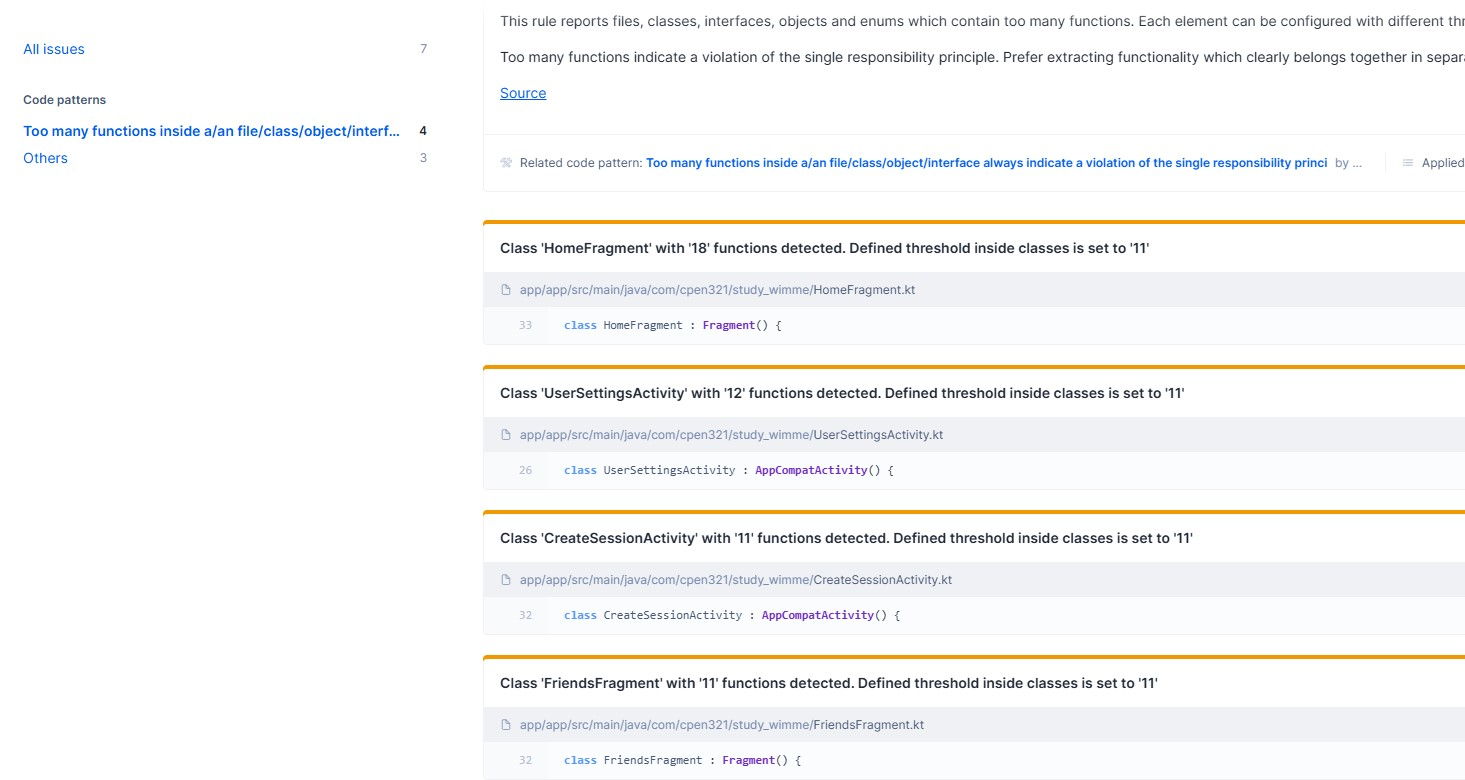
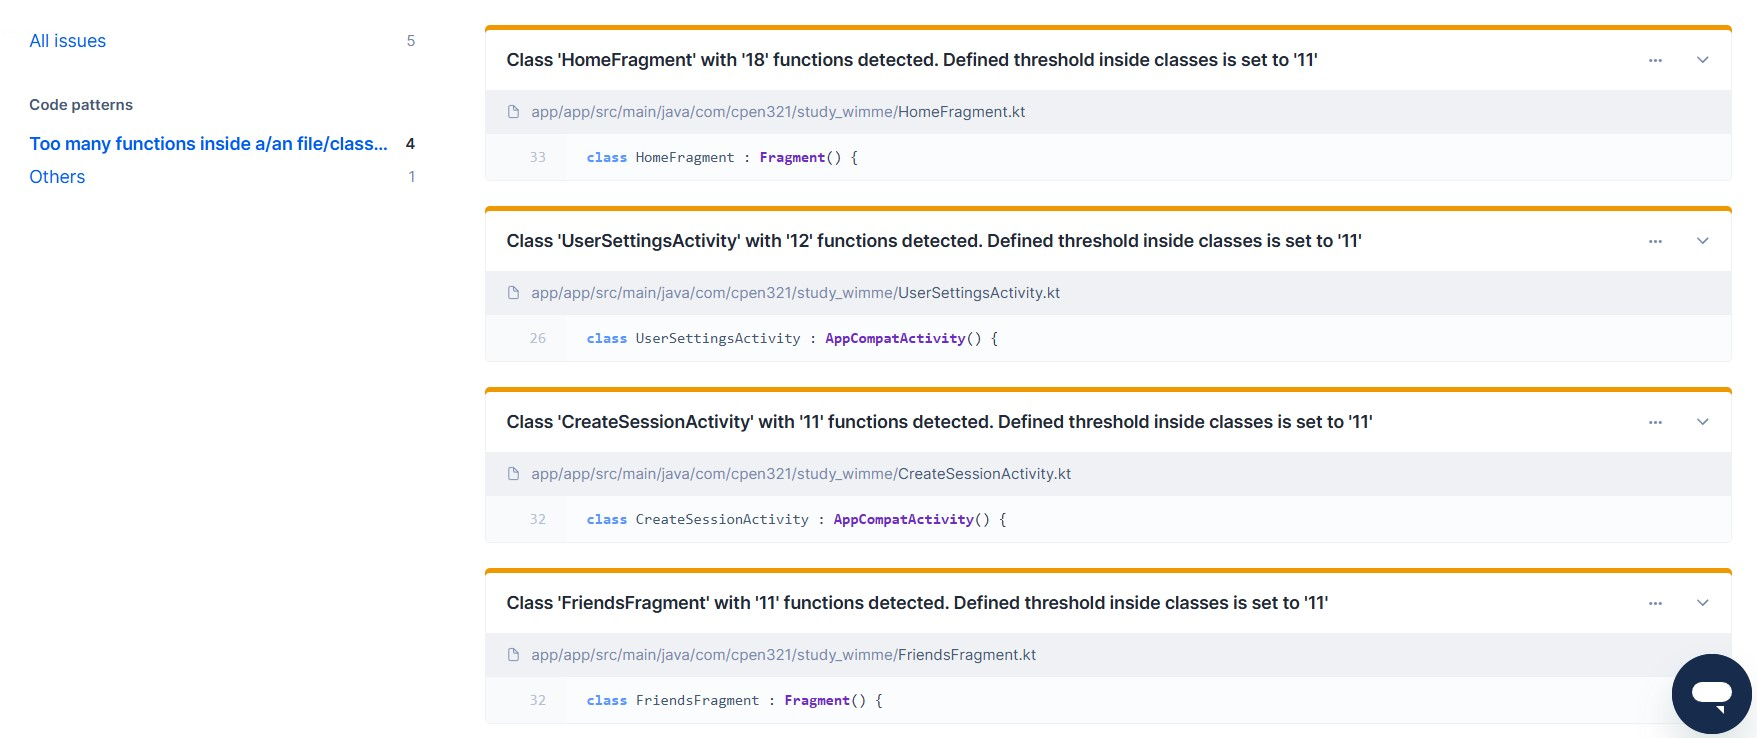
Updated Codacy documentation

diff --git a/documentation/Testing_And_Code_Review.md b/documentation/Testing_And_Code_Review.md
@@ -130,11 +130,12 @@ _(Placeholder for Jest coverage screenshot without mocks)_
 
 ### 5.2. Unfixed Issues per Codacy Category
 
-_(Placeholder for screenshots of Codacyâ€™s Category Breakdown table in Overview)_
+![Codacy Screenshot](https://raw.githubusercontent.com/mayankrastogi02/cpen321-study-wimme/refs/heads/main/documentation/images/Codacy_Screenshot.jpg)
 
 ### 5.3. Unfixed Issues per Codacy Code Pattern
 
-_(Placeholder for screenshots of Codacyâ€™s Issues page)_
+![Codacy Screenshot](https://raw.githubusercontent.com/mayankrastogi02/cpen321-study-wimme/refs/heads/main/documentation/images/Codacy_Screenshot_Category_1.jpg)
+![Codacy Screenshot](https://raw.githubusercontent.com/mayankrastogi02/cpen321-study-wimme/refs/heads/main/documentation/images/Codacy_Screenshot_Category_2.jpg)
 
 ### 5.4. Justifications for Unfixed Issues
 
@@ -142,27 +143,27 @@ _(Placeholder for screenshots of Codacyâ€™s Issues page)_
 
   1.  **Class 'HomeFragment' with '18' functions detected. Defined threshold inside classes is set to '11'**
 
-      - **Location in Git:** [`app/app/src/main/java/com/cpen321/study_wimme/HomeFragment.kt`](#)
+      - **Location in Git:** [`app/app/src/main/java/com/cpen321/study_wimme/HomeFragment.kt`](https://github.com/mayankrastogi02/cpen321-study-wimme/blob/main/app/app/src/main/java/com/cpen321/study_wimme/HomeFragment.kt)
       - **Justification:** The `HomeFragment`class contains multiple functions that handle different responsibilities, such as fetching user data, displaying user data, and handling user interactions. Attempts were made to refactor the code to supress the`method too long` warning, but as a result, the class now contains multiple functions that handle different responsibilities. This is a tradeoff between code readability and adherence to the single responsibility principle.
 
   2.  **Class 'UserSettingsActivity' with '12' functions detected. Defined threshold inside classes is set to '11'**
 
-      - **Location in Git:** [`app/app/src/main/java/com/cpen321/study_wimme/UserSettingsActivity.kt`](#)
+      - **Location in Git:** [`app/app/src/main/java/com/cpen321/study_wimme/UserSettingsActivity.kt`](https://github.com/mayankrastogi02/cpen321-study-wimme/blob/main/app/app/src/main/java/com/cpen321/study_wimme/UserSettingsActivity.kt)
       - **Justification:** The `UserSettingsActivity` class contains multiple functions that handle different responsibilities, such as updating user settings, displaying user settings, and handling user interactions. Attempts were made to refactor the code to suppress the `method too long` warning, but as a result, the class now contains multiple functions that handle different responsibilities. This is a tradeoff between code readability and adherence to the single responsibility principle.
 
   3.  **Class 'CreateSessionActivity' with '11' functions detected. Defined threshold inside classes is set to '11'**
 
-      - **Location in Git:** [`app/app/src/main/java/com/cpen321/study_wimme/CreateSessionActivity.kt`](#)
+      - **Location in Git:** [`app/app/src/main/java/com/cpen321/study_wimme/CreateSessionActivity.kt`](https://github.com/mayankrastogi02/cpen321-study-wimme/blob/main/app/app/src/main/java/com/cpen321/study_wimme/CreateSessionActivity.kt)
       - **Justification:** The `CreateSessionActivity` class contains multiple functions that handle different responsibilities, such as creating a new study session, displaying study session details, and handling user interactions. Attempts were made to refactor the code to suppress the `method too long` warning, but as a result, the class now contains multiple functions that handle different responsibilities. This is a tradeoff between code readability and adherence to the single responsibility principle.
 
   4.  **Class 'FriendsFragment' with '11' functions detected. Defined threshold inside classes is set to '11'**
 
-      - **Location in Git:** [`app/app/src/main/java/com/cpen321/study_wimme/FriendsFragment.kt`](#)
+      - **Location in Git:** [`app/app/src/main/java/com/cpen321/study_wimme/FriendsFragment.kt`](https://github.com/mayankrastogi02/cpen321-study-wimme/blob/main/app/app/src/main/java/com/cpen321/study_wimme/FriendsFragment.kt)
       - **Justification:** The `FriendsFragment` class contains multiple functions that handle different responsibilities, such as fetching user data, displaying user data, and handling user interactions. Attempts were made to refactor the code to suppress the `method too long` warning, but as a result, the class now contains multiple functions that handle different responsibilities. This is a tradeoff between code readability and adherence to the single responsibility principle.
 
 - **Others**
 
   1.  **Expression with labels increase complexity and affect maintainability.** - 
       - **Location in Git:** [`app/app/src/main/java/com/cpen321/study_wimme/
-CreateSessionActivity.kt`](#)
-      - **Justification:** The use of labels in the `CreateSessionActivity` class increases the complexity of the code and affects its maintainability. The labels are used to control the flow of the code, but they make the code harder to read and understand.
+CreateSessionActivity.kt`](https://github.com/mayankrastogi02/cpen321-study-wimme/blob/main/app/app/src/main/java/com/cpen321/study_wimme/CreateSessionActivity.kt) 
+      - **Justification:** The `CreateSessionActivity` class uses labeled expressions to manage complex control flows that are essential for the application's functionality. Removing these labels would significantly increase the complexity of the code and reduce its maintainability. Therefore, the decision was made to keep the labeled expressions to ensure the code remains understandable and maintainable.
